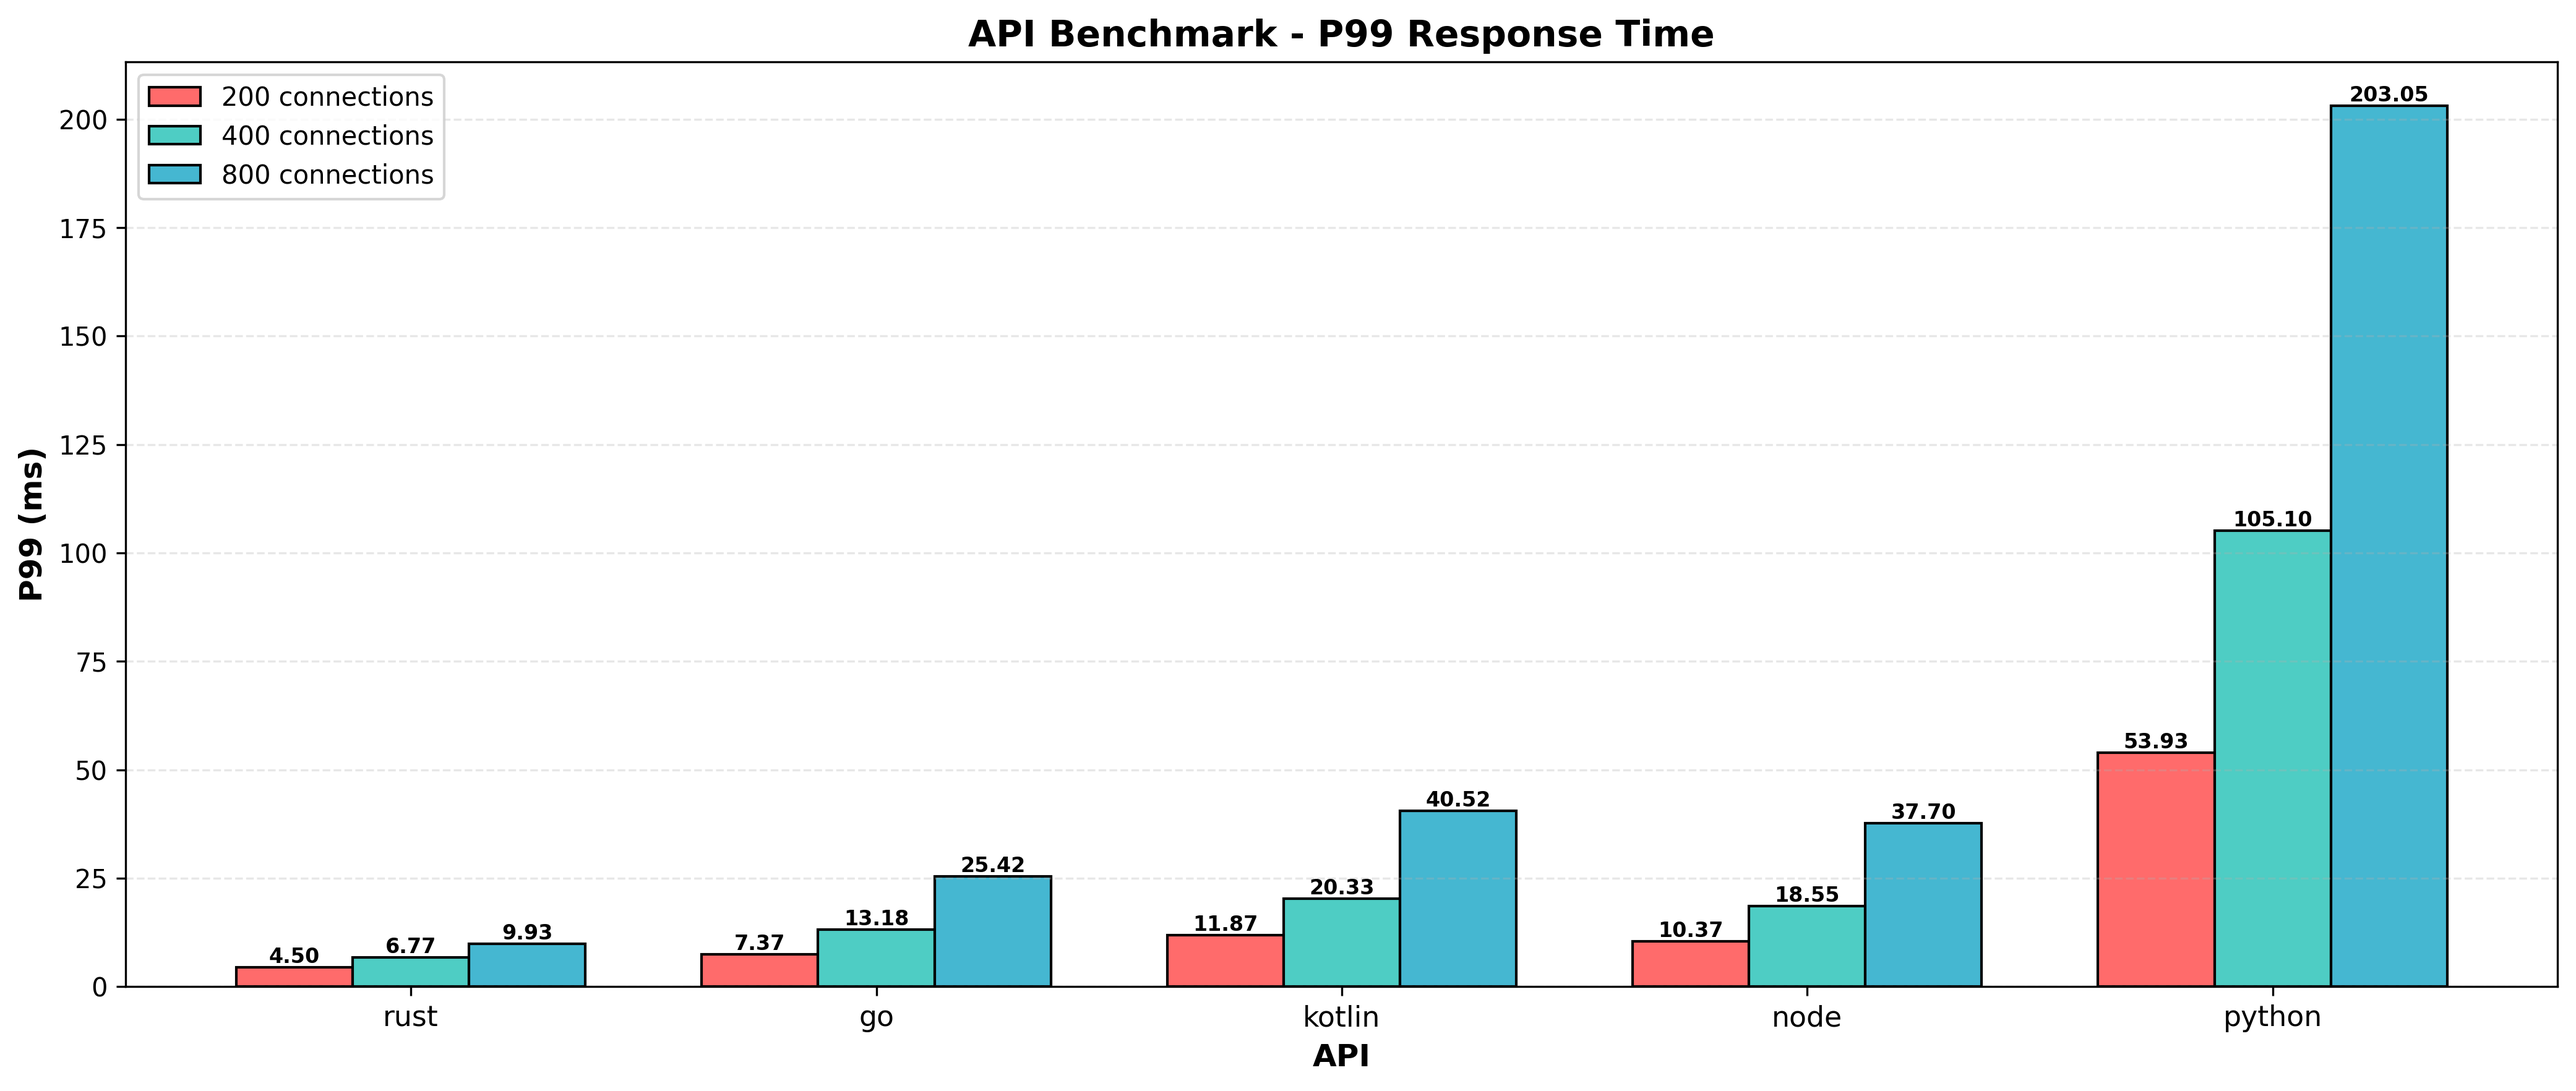
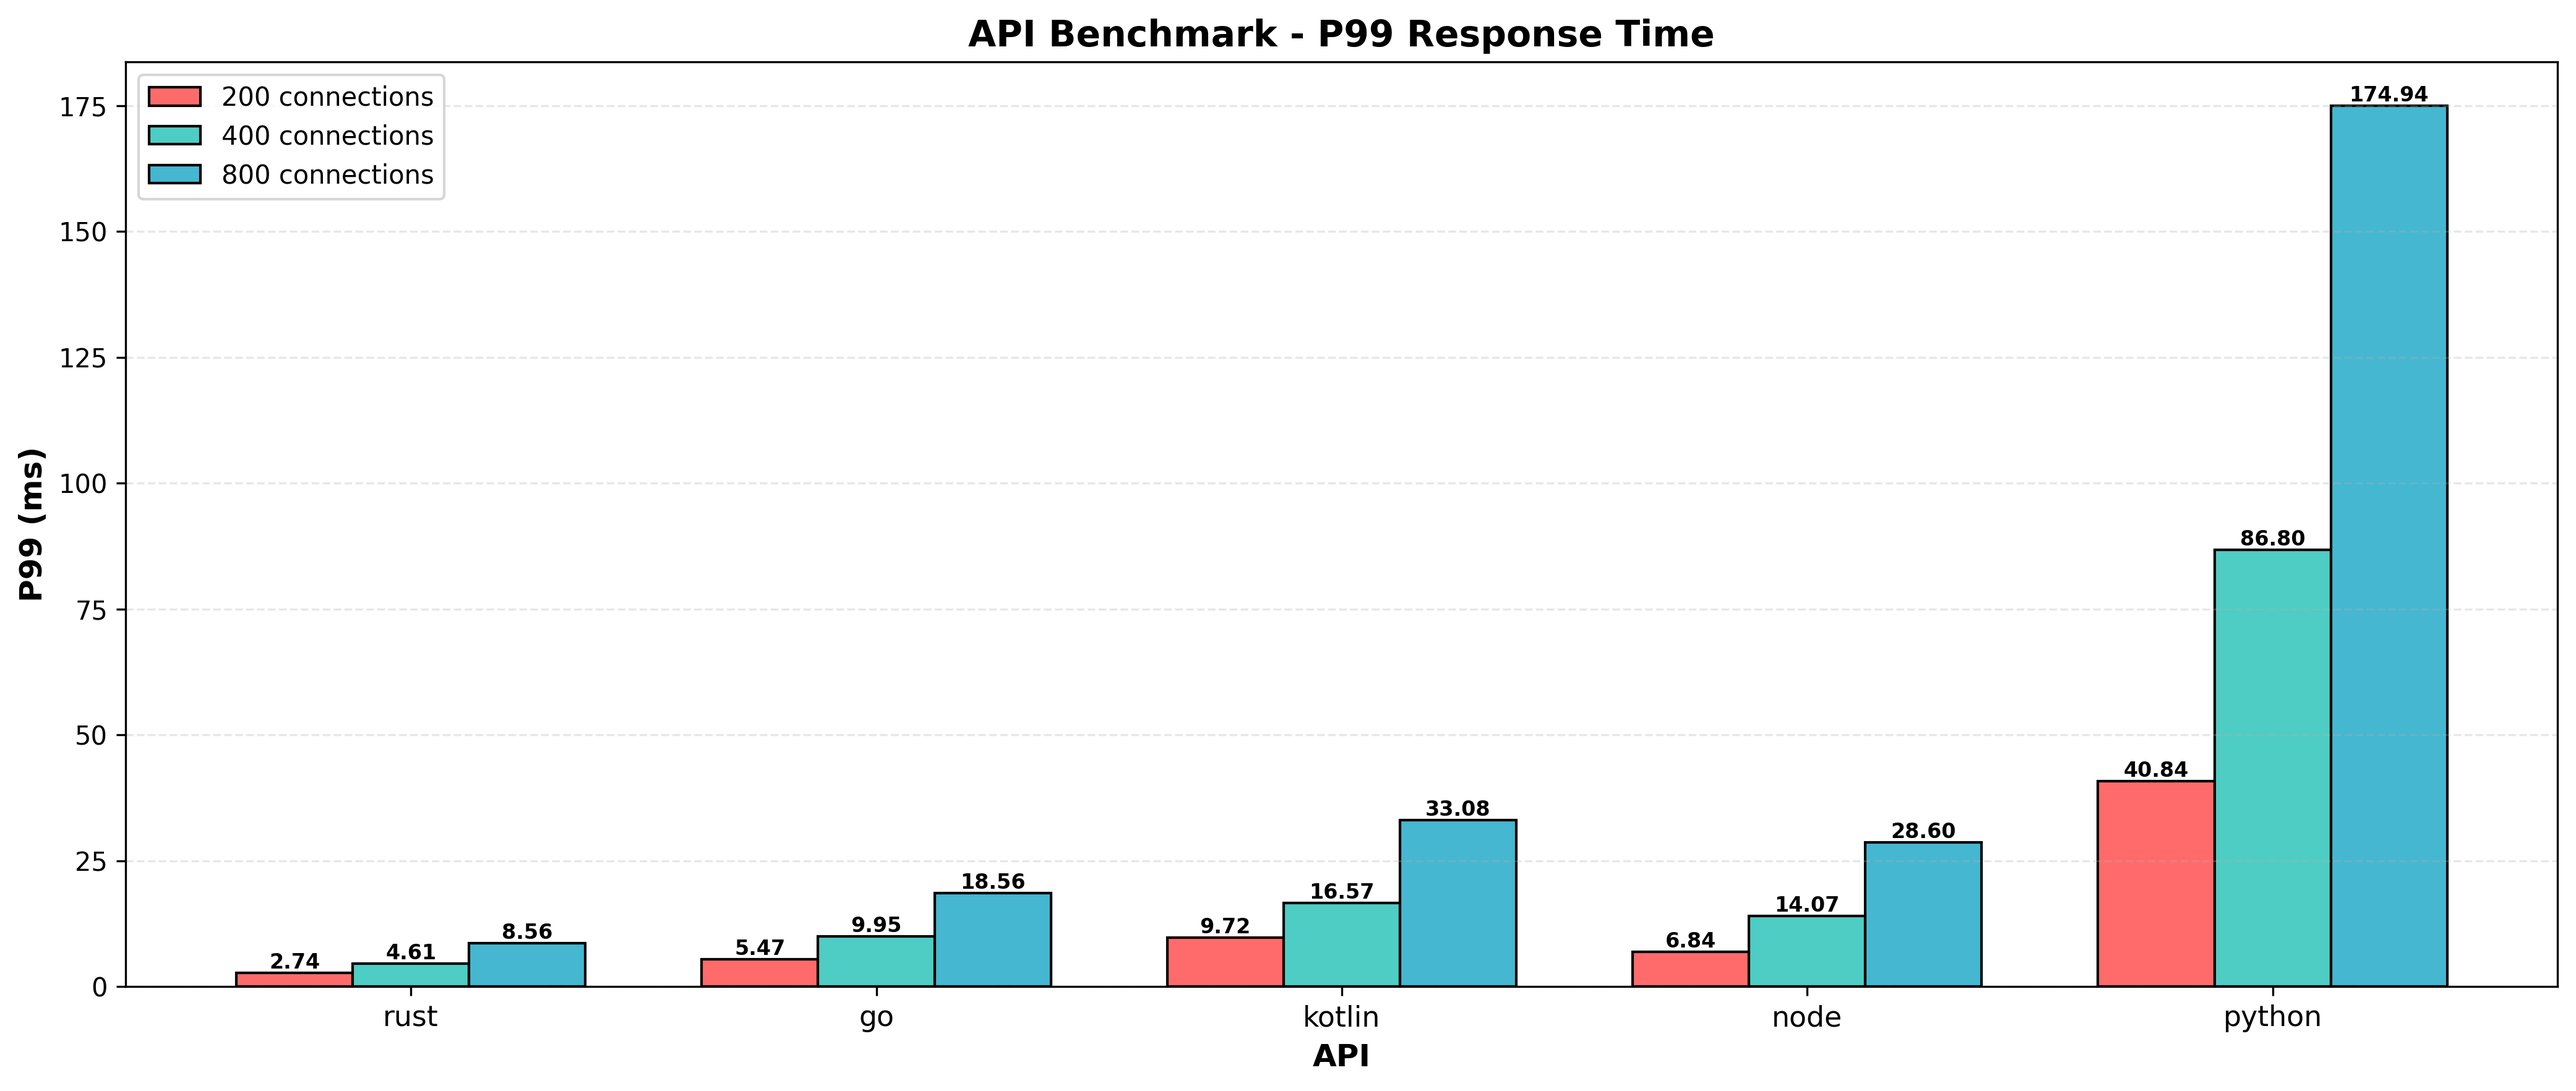
results from github actions autocommit

diff --git a/results/raw.md b/results/raw.md
@@ -1,26 +1,26 @@
 # Results
 ## Timestamp
-Thu Jan 1 19:01:17 UTC 2026
+Fri Jan 2 10:20:14 UTC 2026
 ## Hardware Info
 | CPU Model | Num CPUs | Memory |
 | --------- | -------- | ------ |
-| AMD EPYC 7763 64-Core Processor | 4 | 16G |
+| Intel(R) Xeon(R) Platinum 8370C CPU @ 2.80GHz | 4 | 16G |
 
 ## Benchmarks of 1 Million Requests
 | Test Name | HTTP Conns | Success Rate | Test Seconds | Requests per Second | P50 Millis | P99 Millis | P99.9 Millis | API Memory MB | API CPU Time | API Threads |
 | --------- | ---------- | ------------ | ------------ | ------------------- | ---------- | ---------- | ------------ | ------------- | ------------ | ----------- |
-| rust | 200 | 100.0% | 8.7 | 114327.5 | 1.6107 | 4.5042 | 5.9393 | 8.3 | 00:00:17 | 5 |
-| rust | 400 | 100.0% | 8.4 | 117992.2 | 3.2148 | 6.7687 | 9.5033 | 13.0 | 00:00:16 | 5 |
-| rust | 800 | 100.0% | 8.4 | 118432.3 | 6.7441 | 9.9341 | 14.5312 | 22.2 | 00:00:16 | 5 |
-| go | 200 | 100.0% | 11.6 | 85514.7 | 1.8438 | 7.3703 | 10.4334 | 18.2 | 00:00:27 | 12 |
-| go | 400 | 100.0% | 11.1 | 89634.4 | 3.7735 | 13.1819 | 19.0875 | 24.8 | 00:00:26 | 11 |
-| go | 800 | 100.0% | 11.2 | 89291.2 | 7.9873 | 25.4152 | 38.1056 | 37.2 | 00:00:26 | 10 |
-| kotlin | 200 | 100.0% | 14.5 | 68710.1 | 1.9934 | 11.8690 | 38.5856 | 522.3 | 00:00:40 | 30 |
-| kotlin | 400 | 100.0% | 14.9 | 66696.4 | 5.1092 | 20.3252 | 70.2163 | 536.0 | 00:00:42 | 30 |
-| kotlin | 800 | 100.0% | 14.7 | 67884.4 | 9.8091 | 40.5166 | 98.1282 | 622.2 | 00:00:41 | 30 |
-| node | 200 | 100.0% | 34.0 | 29330.7 | 5.8466 | 10.3663 | 11.2641 | 104.5 | 00:00:34 | 7 |
-| node | 400 | 100.0% | 33.7 | 29604.4 | 11.7283 | 18.5549 | 22.0352 | 139.9 | 00:00:34 | 7 |
-| node | 800 | 100.0% | 34.5 | 28971.8 | 23.5023 | 37.6957 | 43.3468 | 149.1 | 00:00:34 | 7 |
-| python | 200 | 100.0% | 236.0 | 6458.1 | 46.4126 | 53.9325 | 54.5533 | 34.6 | 00:03:56 | 1 |
-| python | 400 | 100.0% | 232.5 | 7295.0 | 91.8607 | 105.1033 | 108.4035 | 37.3 | 00:03:52 | 1 |
-| python | 800 | 100.0% | 230.2 | 7041.3 | 182.4266 | 203.0541 | 211.8493 | 43.1 | 00:03:50 | 1 |
+| rust | 200 | 100.0% | 6.2 | 159987.8 | 1.1283 | 2.7413 | 3.9035 | 8.5 | 00:00:11 | 5 |
+| rust | 400 | 100.0% | 6.2 | 160508.9 | 2.4893 | 4.6132 | 6.8810 | 13.0 | 00:00:11 | 5 |
+| rust | 800 | 100.0% | 6.5 | 152800.3 | 5.1101 | 8.5590 | 14.1767 | 22.2 | 00:00:12 | 5 |
+| go | 200 | 100.0% | 8.7 | 114423.3 | 1.3786 | 5.4684 | 7.5757 | 17.7 | 00:00:20 | 10 |
+| go | 400 | 100.0% | 8.6 | 116203.4 | 2.8594 | 9.9470 | 13.8682 | 24.6 | 00:00:20 | 10 |
+| go | 800 | 100.0% | 9.3 | 106725.4 | 6.7908 | 18.5573 | 30.0312 | 37.7 | 00:00:22 | 11 |
+| kotlin | 200 | 100.0% | 11.4 | 87831.7 | 1.5071 | 9.7161 | 38.4389 | 541.7 | 00:00:32 | 30 |
+| kotlin | 400 | 100.0% | 11.1 | 89116.0 | 3.4435 | 16.5652 | 61.2576 | 604.8 | 00:00:31 | 30 |
+| kotlin | 800 | 100.0% | 12.1 | 82166.9 | 7.6186 | 33.0828 | 102.9260 | 617.5 | 00:00:34 | 30 |
+| node | 200 | 100.0% | 21.8 | 45710.6 | 3.8407 | 6.8401 | 9.3349 | 107.0 | 00:00:22 | 7 |
+| node | 400 | 100.0% | 25.5 | 39199.4 | 8.9090 | 14.0736 | 20.8936 | 139.3 | 00:00:25 | 7 |
+| node | 800 | 100.0% | 26.2 | 38172.1 | 18.4772 | 28.6024 | 47.1297 | 149.6 | 00:00:26 | 7 |
+| python | 200 | 100.0% | 182.0 | 8912.9 | 36.0579 | 40.8387 | 43.5866 | 34.7 | 00:03:02 | 1 |
+| python | 400 | 100.0% | 190.9 | 8992.6 | 75.8968 | 86.7951 | 91.3985 | 37.3 | 00:03:10 | 1 |
+| python | 800 | 100.0% | 193.0 | 10044.8 | 154.2073 | 174.9353 | 182.3190 | 42.3 | 00:03:13 | 1 |

diff --git a/results/latest.md b/results/latest.md
@@ -1,6 +1,6 @@
 # Latest Results
 
-Timestamp: `Thu Jan 1 19:01:17 UTC 2026`
+Timestamp: `Fri Jan 2 10:20:14 UTC 2026`
 
 ## Requests Per Second
 ![Requests Per Second](rps.png)
